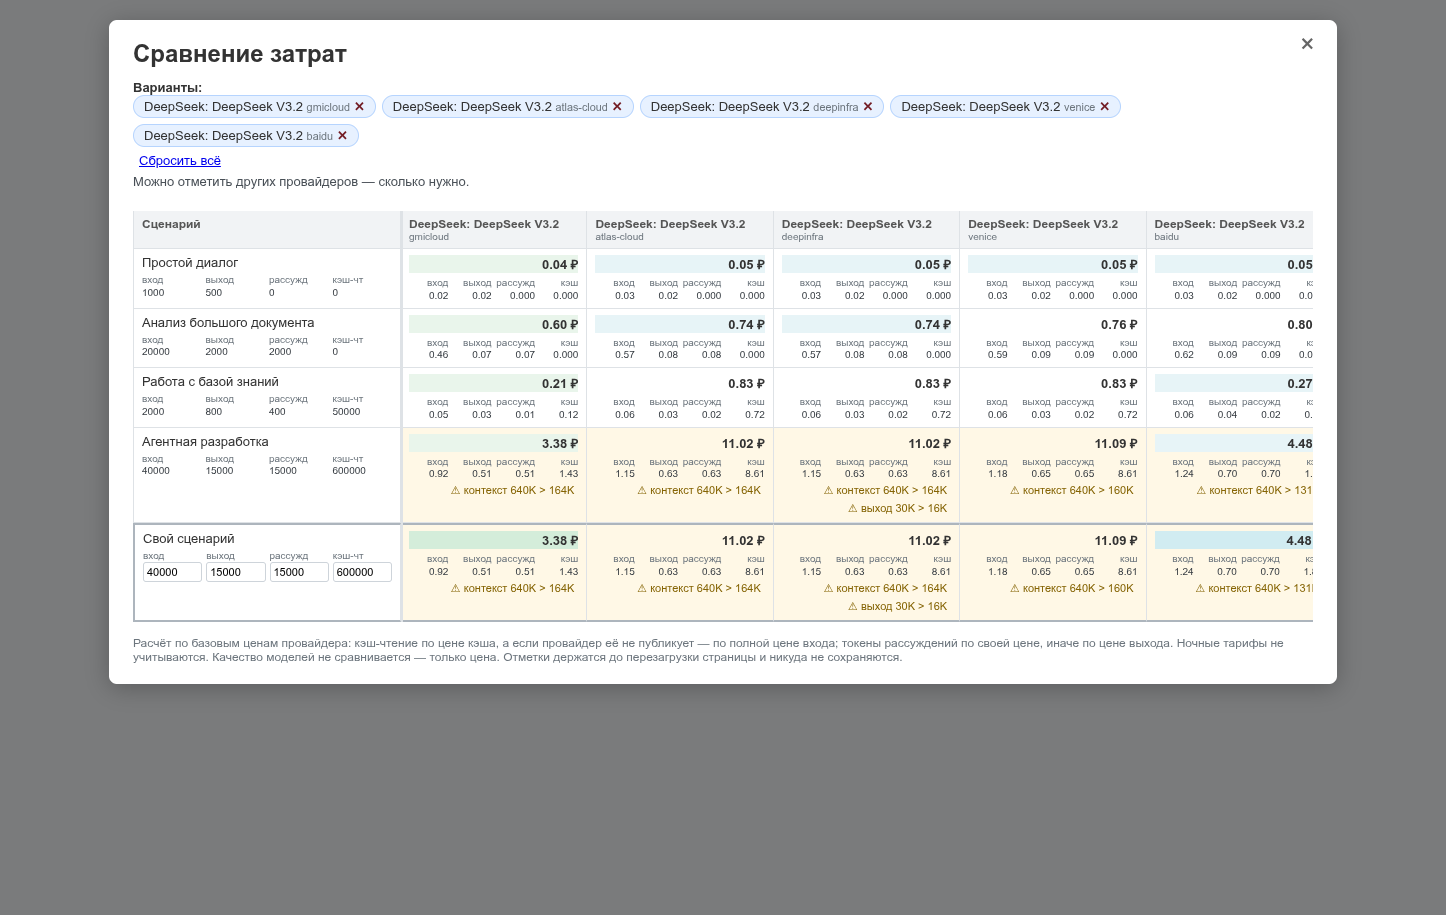
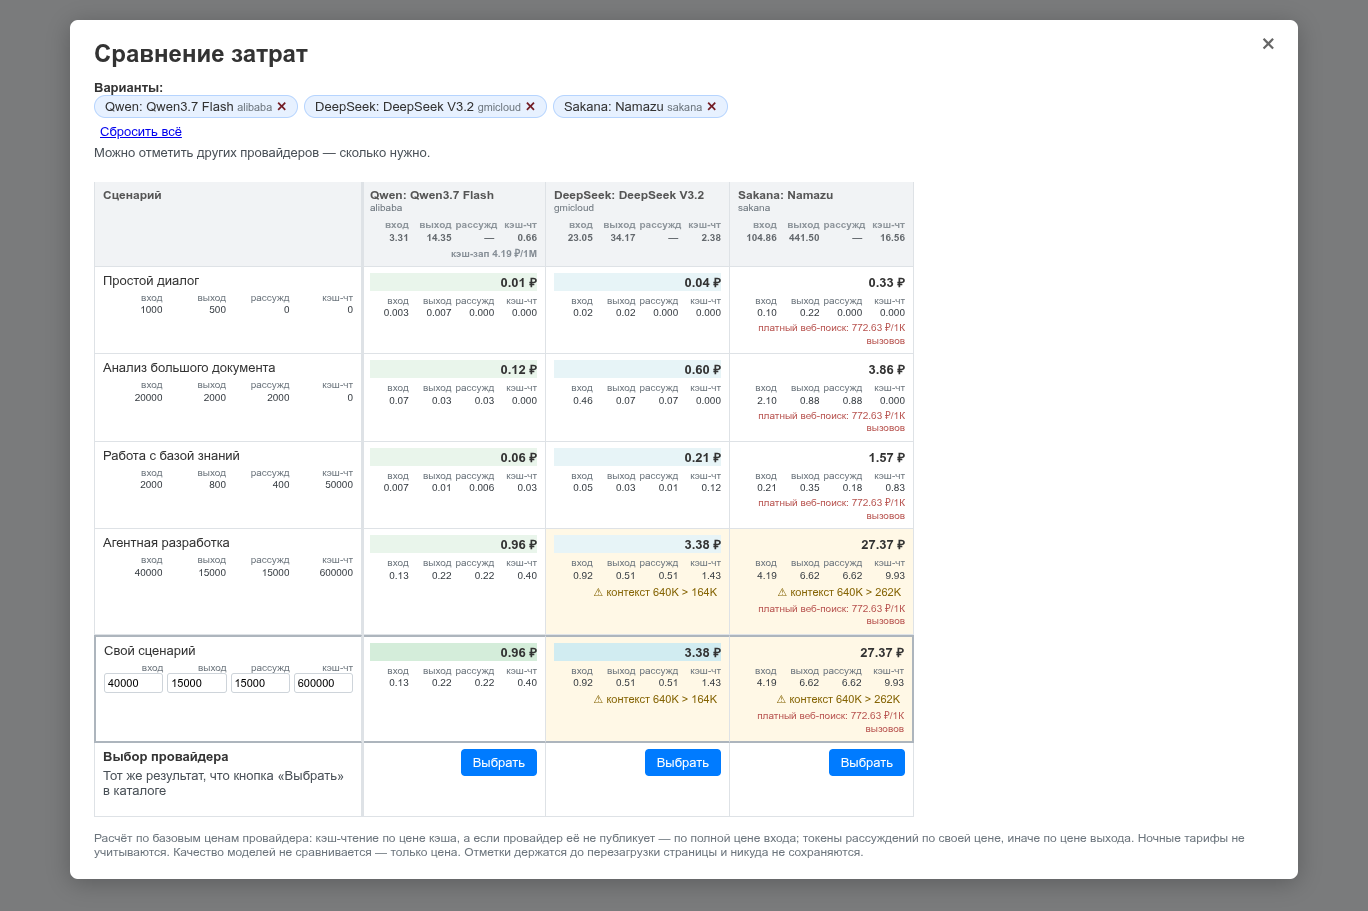
Show provider tariff in comparison header and select from it
В сравнении затрат было видно, сколько стоит сценарий, но не из каких цен
это сложилось: вернуться в каталог и вычитывать тариф глазами не получалось.
В шапку каждой колонки добавлена сетка из тех же четырёх столбиков, что и
рубли в ячейках — цена за 1М токенов, выровненная строго над своей колонкой
рублей: вход 1000 × 23.05 = 0.02 ₽. Неподдерживаемая операция — прочерком,
для входа и выхода добавлены признаки поддержки: у моделей генерации
картинок prompt/completion отсутствуют вовсе, и ноль там был бы ложью.

Ячейки сравнения получили выравнивание text-align: right явно на сетке:
раньше оно наследовалось от ячейки таблицы — в шапке left, в теле right, —
и одинаковые таблички выглядели по-разному. Подпись кэша унифицирована до
«кэш-чт» по всем четырём местам.

Под предупреждениями о лимитах выводится строка о платном веб-поиске: это
единственная дополнительная операция, которая участвует в разговоре и
пополняет счёт. Для бесплатного (0 ₽) и неподдерживаемого поиска строка не
показывается.

В самом низу таблицы — строка «Выбор провайдера» с кнопкой «Выбрать» под
каждым вариантом: та же кнопка, что в каталоге, чтобы не возвращаться и
искать провайдера глазами. Выбранный вариант помечен галочкой. Кнопка
отцентрована собственным классом, а не унаследованным от ячейки выравниванием.

diff --git a/templates/panel.html b/templates/panel.html
@@ -162,9 +162,21 @@
         #compare-table input { -moz-appearance: textfield; appearance: textfield; }
         /* Одна сетка на все таблички: токены сценариев, свои поля ввода и разбивка цен */
         .cmp-grid { display: grid; grid-template-columns: repeat(4, 1fr); gap: 0 4px; margin-top: 4px; }
+        /* Выравнивание задаём явно, а не наследуем от ячейки: в шапке таблицы
+           текст выровнен по левому краю, в ячейках — по правому, и одна и та же
+           сетка выглядела по-разному. Числа выравниваем по правому краю —
+           так десятичные разряды стоят в столбик. */
+        .cmp-grid { text-align: right; }
         .cmp-grid .cmp-field { min-width: 0; }
         .cmp-grid .cmp-label { display: block; font-size: 10px; line-height: 1.15; color: #6c757d; }
         .cmp-grid .cmp-val { display: block; font-size: 10px; line-height: 1.3; color: #343a40; }
+        /* Тариф провайдера в шапке колонки: та же сетка, но приглушённая —
+        чтобы не спорила с рублями в ячейках */
+        .cmp-tariff { margin-top: 6px; opacity: 0.75; }
+        .cmp-tariff .cmp-val { font-weight: bold; }
+        .cmp-tariff-note { font-size: 10px; color: #868e96; margin-top: 2px; text-align: right; }
+        /* Предупреждение о платной операции: не ярко-красное, читаемое */
+        .cmp-websearch { font-size: 10px; line-height: 1.25; color: #b85450; margin-top: 3px; }
         /* Места в строке «Свой сценарий»: 1-е зелёным, 2-е голубым.
            Подсветка занимает всю строку цены, а не ячейку: разбивка и
            предупреждение остаются на обычном фоне. */
@@ -191,6 +203,12 @@
         .cmp-detail { font-size: 11px; color: #6c757d; margin-top: 2px; line-height: 1.35; }
         .cmp-warn { font-size: 11px; color: #856404; margin-top: 3px; }
         .cmp-cell-warn { background: #fff8e6; }
+        /* Выбранный провайдер в строке «Выбор провайдера» */
+        .cmp-selected { background: #e9f5eb; }
+        .cmp-selected strong { color: #28a745; }
+        /* Кнопка выбора — по центру ячейки, а не прижата к правому краю
+           вместе с ценами */
+        #compare-table td.cmp-select-cell { text-align: center; }
         .cmp-na { color: #6c757d; font-style: italic; text-align: center !important; }
         .cmp-hint { font-size: 13px; color: #495057; margin: 0 0 12px 0; }
     </style>
@@ -548,6 +566,8 @@
         // а не только после того как пользователь ткнёт в чекбокс
         document.getElementById('opencode-config-path').disabled =
             !document.getElementById('opencode-replace-toggle').checked;
+        // Какой провайдер выбран — чтобы галочка в сравнении встала на место
+        cmpInitSelected();
         checkPriceChanges();
         setInterval(checkPriceChanges, 30000);
     });
@@ -624,8 +644,11 @@
         .then(r => r.json())
         .then(data => {
             if (data.status === 'ok') {
+                cmpSelectedKey = cmpSelKey(modelId, providerTag);
                 updateProfileBlock(data.profile);
                 highlightSelectedRow(modelId, providerTag);
+                // Кнопка «Выбрать» сменяется галочкой и в строке сравнения
+                cmpRefreshSelectRow();
                 // Если разрешена правка конфига — обновляем его сразу
                 maybeUpdateOpencodeConfig();
             }
@@ -727,6 +750,11 @@
     ];
     const cmpCustom = {name: 'Свой сценарий', inp: 0, out: 0, rea: 0, cr: 0};
     let cmpVariants = [];
+    // Выбранная пара модель+провайдер: нужно, чтобы кнопка в сравнении знала,
+    // кого отмечать галочкой. Заполняется из подсвеченной строки каталога
+    // и обновляется при каждом выборе.
+    let cmpSelectedKey = null;
+    const cmpSelKey = (modelId, tag) => modelId + '|' + tag;
     let cmpToastTimer = null;
 
     function cmpTok(v) {
@@ -766,22 +794,32 @@
     }
 
     function cmpReadRow(row) {
+        const sup = (attr) => row.getAttribute(attr) !== '0';
         return {
             key: cmpKey(row),
             model: row.getAttribute('data-model-name') || row.getAttribute('data-model'),
+            modelId: row.getAttribute('data-model'),
             tag: row.getAttribute('data-tag'),
             provider: row.getAttribute('data-provider'),
             input: cmpNum(row, 'data-input'),
+            inputSupported: sup('data-input-supported'),
             output: cmpNum(row, 'data-output'),
+            outputSupported: sup('data-output-supported'),
             cache: cmpNum(row, 'data-cache'),
             // Отдельно от цены: 0 ₽ за кэш и «кэш не поддерживается» — разные
             // вещи с разной стоимостью для пользователя
-            cacheSupported: row.getAttribute('data-cache-supported') !== '0',
+            cacheSupported: sup('data-cache-supported'),
+            cacheWrite: cmpNum(row, 'data-cache-write'),
+            cacheWriteSupported: sup('data-cache-write-supported'),
             reasoning: cmpNum(row, 'data-reasoning'),
-            reasoningSupported: row.getAttribute('data-reasoning-supported') !== '0',
+            reasoningSupported: sup('data-reasoning-supported'),
             request: cmpNum(row, 'data-request'),
             ctx: cmpNum(row, 'data-context-raw'),
-            maxOut: cmpNum(row, 'data-max-tokens')
+            maxOut: cmpNum(row, 'data-max-tokens'),
+            // ₽ за 1К вызовов веб-поиска — единственная платная операция,
+            // которая влияет на разговор и о которой стоит предупреждать
+            websearch: cmpNum(row, 'data-websearch'),
+            websearchSupported: sup('data-websearch-supported')
         };
     }
 
@@ -794,6 +832,28 @@
             cmpVariants = cmpVariants.filter(v => v.key !== key);
         }
         cmpSync();
+    }
+
+    // Тариф провайдера в шапке колонки: цена за 1М токенов, разложенная
+    // теми же четырьмя столбиками, что и рубли в ячейках. Ширина сетки
+    // совпадает, поэтому каждое число стоит ровно над своей колонкой рублей.
+    // Неподдерживаемая операция — прочерком, а не нулём: нуль тут был бы
+    // неотличим от бесплатной операции.
+    function cmpTariffGrid(v) {
+        const cell = (label, price, supported) =>
+            '<div class="cmp-field"><span class="cmp-label">' + label + '</span>' +
+            '<span class="cmp-val">' + (supported ? price.toFixed(2) : '—') + '</span></div>';
+        return '<div class="cmp-grid cmp-tariff">' +
+            cell('вход', v.input, v.inputSupported) +
+            cell('выход', v.output, v.outputSupported) +
+            cell('рассужд', v.reasoning, v.reasoningSupported) +
+            cell('кэш-чт', v.cache, v.cacheSupported) +
+            '</div>' +
+            // Цена записи кэша в расчёт не входит, но в тарифе она видна:
+            // при оценке провайдера её тоже хочется видеть
+            (v.cacheWriteSupported
+                ? '<div class="cmp-tariff-note">кэш-зап ' + v.cacheWrite.toFixed(2) + ' ₽/1М</div>'
+                : '');
     }
 
     // Строки, реально видимые после фильтров (скрытые — вместе с родительским блоком).
@@ -1005,14 +1065,24 @@
         return ' cmp-rank' + rank + (pale ? '-pale' : '');
     }
 
+    // Предупреждение о платной операции. Стоит под плашками лимитов: и то и
+    // другое — сюрпризы, которые видно только когда уже сравниваешь цены.
+    // Цена 0 ₽ здесь означает бесплатный поиск (Яндекс, Cloud.ru) — для них
+    // предупреждение не нужно.
+    function cmpWebsearchWarn(v) {
+        if (!v.websearchSupported || v.websearch <= 0) return '';
+        return '<div class="cmp-websearch">платный веб-поиск: ' +
+            v.websearch.toFixed(2) + ' ₽/1К вызовов</div>';
+    }
+
     function cmpCell(v, s) {
         const b = cmpBreakdown(v, s);
         if (b === null) return '<span class="cmp-na">не сравнимо</span>';
         // Разбивка теми же подписанными столбиками, что и токены в сценариях
         const grid = cmpMoneyGrid([['вход', cmpRub(b.input)], ['выход', cmpRub(b.output)],
-                                  ['рассужд', cmpRub(b.reasoning)], ['кэш', cmpRub(b.cache)]]);
+                                  ['рассужд', cmpRub(b.reasoning)], ['кэш-чт', cmpRub(b.cache)]]);
         return '<b>' + cmpRub(b.total) + ' ₽</b>' +
-            grid + cmpWarn(v, s);
+            grid + cmpWarn(v, s) + cmpWebsearchWarn(v);
     }
 
     // Плашки вариантов: оставляем две строки, остальное — под «ещё N».
@@ -1094,7 +1164,8 @@
         let html = '<table style="width:' + (COL_SCEN + cmpVariants.length * COL_VAR) + 'px">' +
             '<thead><tr><th>Сценарий</th>' +
             cmpVariants.map(v => '<th>' + cmpEsc(v.model) + '<br>' +
-                '<small style="color:#6c757d;font-weight:normal;">' + cmpEsc(v.tag) + '</small></th>').join('') +
+                '<small style="color:#6c757d;font-weight:normal;">' + cmpEsc(v.tag) + '</small>' +
+                cmpTariffGrid(v) + '</th>').join('') +
             '</tr></thead><tbody>';
 
         for (const s of CMP_SCENARIOS) {
@@ -1128,9 +1199,50 @@
                     (cls.trim() ? ' class="' + cls.trim() + '"' : '') + '>' +
                     cmpCell(v, cmpCustom) + '</td>';
             }).join('') +
+            '</tr>' +
+            // Строка выбора: та же кнопка «Выбрать», что и в каталоге, чтобы не
+            // возвращаться назад и искать провайдера глазами
+            '<tr><td><strong>Выбор провайдера</strong>' +
+            '<div class="cmp-hint" style="margin-top:4px;">Тот же результат, что кнопка «Выбрать» в каталоге</div></td>' +
+            cmpVariants.map((v, i) => cmpSelectCell(v, i)).join('') +
             '</tr></tbody></table>';
 
         table.innerHTML = html;
+    }
+
+    // Ячейка строки выбора: кнопка или галочка, если вариант уже выбран
+    function cmpSelectCell(v, i) {
+        const sel = cmpSelectedKey === cmpSelKey(v.modelId, v.tag);
+        return '<td class="cmp-select-cell' + (sel ? ' cmp-selected' : '') + '" id="cmp-select-cell-' + i + '">' +
+            (sel ? '<strong>✓ выбран</strong>'
+                 : '<button class="btn" onclick="cmpSelectVariant(' + i + ')" ' +
+                       'title="Сделать этого провайдера рабочим">Выбрать</button>') +
+            '</td>';
+    }
+
+    // Выбор провайдера прямо из сравнения — цены уже есть в варианте
+    function cmpSelectVariant(i) {
+        const v = cmpVariants[i];
+        if (!v) return;
+        selectProvider(v.modelId, v.tag, v.input / 1000000, v.output / 1000000, v.cache / 1000000);
+    }
+
+    // Перекраска строки выбора после нажатия, без перерисовки всей таблицы:
+    // иначе сбрасывались бы введённые числа своего сценария. Разметка ячейки
+    // берётся из cmpSelectCell, чтобы кнопка и галочка не разошлись.
+    function cmpRefreshSelectRow() {
+        cmpVariants.forEach((v, i) => {
+            const td = document.getElementById('cmp-select-cell-' + i);
+            if (!td) return;
+            td.outerHTML = cmpSelectCell(v, i);
+        });
+    }
+
+    // Какой провайдер выбран сейчас — по подсвеченной строке каталога.
+    // Нужно, чтобы при открытии сравнения галочка уже стояла на своём месте.
+    function cmpInitSelected() {
+        const row = document.querySelector('tr.provider-row[style*="e2f0d9"]');
+        if (row) cmpSelectedKey = cmpSelKey(row.getAttribute('data-model'), row.getAttribute('data-tag'));
     }
 
     function cmpCustomInput(input, field) {

diff --git a/proxy.py b/proxy.py
@@ -556,11 +556,17 @@ def render_catalog_sections(catalog_data, settings) -> str:
                     <tr class="provider-row"{selected_style}
                         data-context-raw="{ep.get("context_length") or 0}"
                         data-input="{(ep.get("pricing") or {}).get("prompt", 0) * 1000000}"
+                        data-input-supported="{1 if price_supported(ep, "prompt") else 0}"
                         data-output="{(ep.get("pricing") or {}).get("completion", 0) * 1000000}"
+                        data-output-supported="{1 if price_supported(ep, "completion") else 0}"
                         data-cache="{(ep.get("pricing") or {}).get("input_cache_read", 0) * 1000000}"
                         data-cache-supported="{1 if price_supported(ep, "input_cache_read") else 0}"
+                        data-cache-write="{(ep.get("pricing") or {}).get("input_cache_write", 0) * 1000000}"
+                        data-cache-write-supported="{1 if price_supported(ep, "input_cache_write") else 0}"
                         data-reasoning="{(ep.get("pricing") or {}).get("internal_reasoning", 0) * 1000000}"
                         data-reasoning-supported="{1 if price_supported(ep, "internal_reasoning") else 0}"
+                        data-websearch="{(ep.get("pricing") or {}).get("web_search", 0) * 1000}"
+                        data-websearch-supported="{1 if price_supported(ep, "web_search") else 0}"
                         data-request="{(ep.get("pricing") or {}).get("request", 0)}"
                         data-max-tokens="{ep.get("max_completion_tokens") or 0}"
                         data-model="{esc(item["id"])}"
